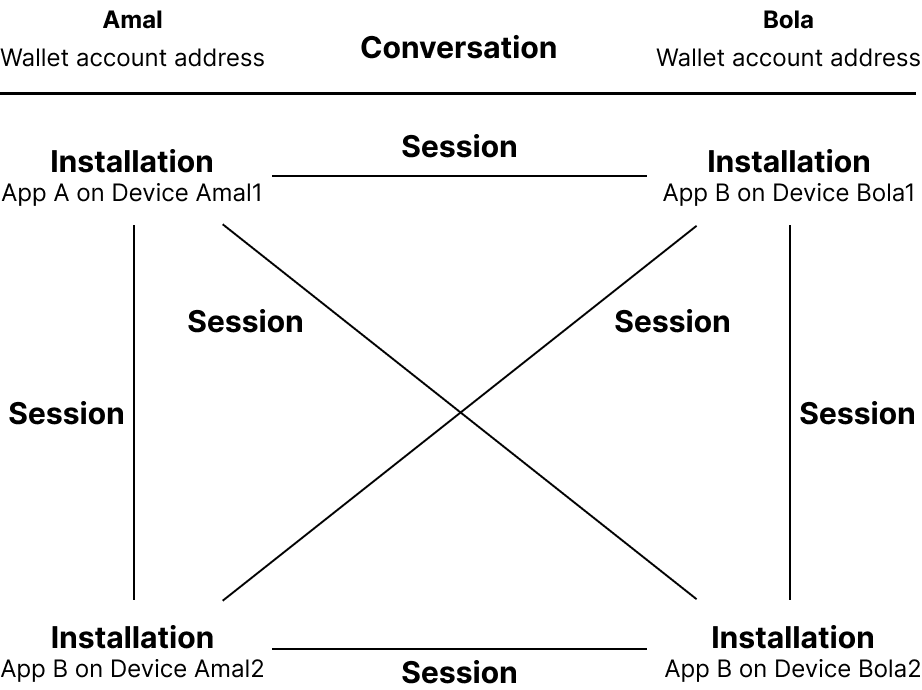
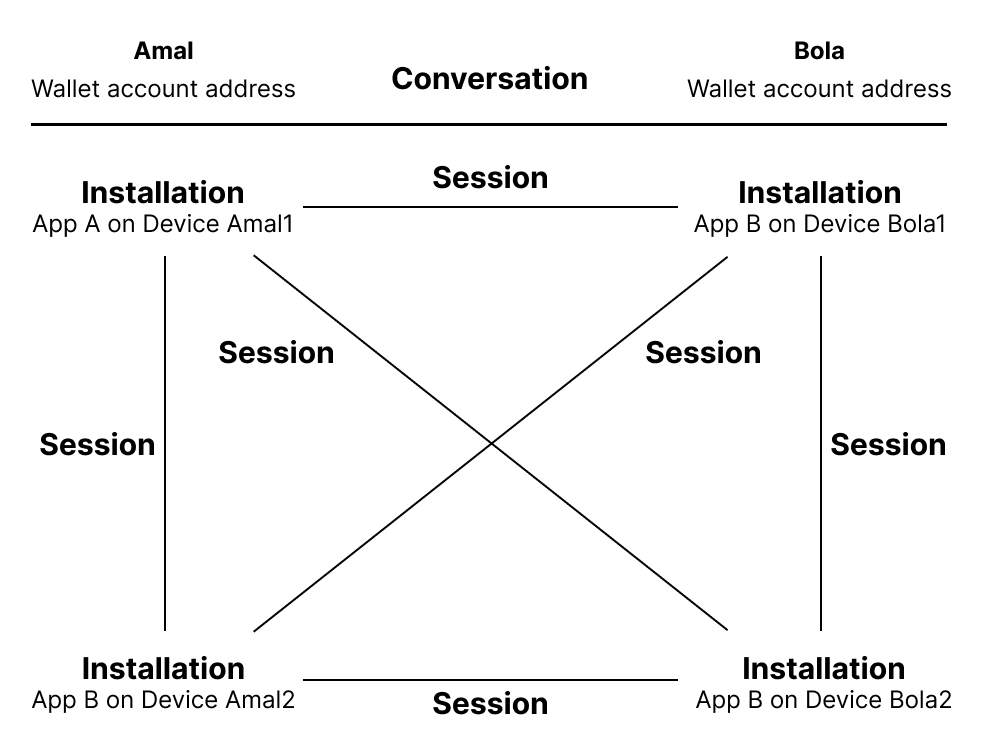
docs: add white bkgrnd to convo breakdown

diff --git a/TECHNICAL_OVERVIEW.md b/TECHNICAL_OVERVIEW.md
@@ -127,7 +127,7 @@ In the event of a compromise, malicious app, or no longer used installation, the
 
 In XMTP v3, a **conversation** consists of pair-wise sessions between installations (known as ’client-side fanout’). For example, this diagram illustrates the sessions that comprise a conversation consisting of two users, each with two installations. Each message in the conversation is sent from the sending installation to all other installations in the conversation.
 
-<img src="img/conversation-breakdown.png" width=600 />
+<img src="img/conversation-breakdown.png" width="600" />
 
 XMTP v3 introduces a secure peer-to-peer channel that serves as a primitive building block for future versions of the protocol. To learn more, see [Roadmap](#roadmap).
 
@@ -307,7 +307,7 @@ Relevant repos:
 
 The XMTP v3 protocol implementation uses the following tech stack:
 
-<img src="img/tech-stack.png" width=800 />
+<img src="img/tech-stack.png" width="800" />
 
 | Tech                                                        | Responsibility                                                                                                                                                                                              |
 | ----------------------------------------------------------- | ----------------------------------------------------------------------------------------------------------------------------------------------------------------------------------------------------------- |
